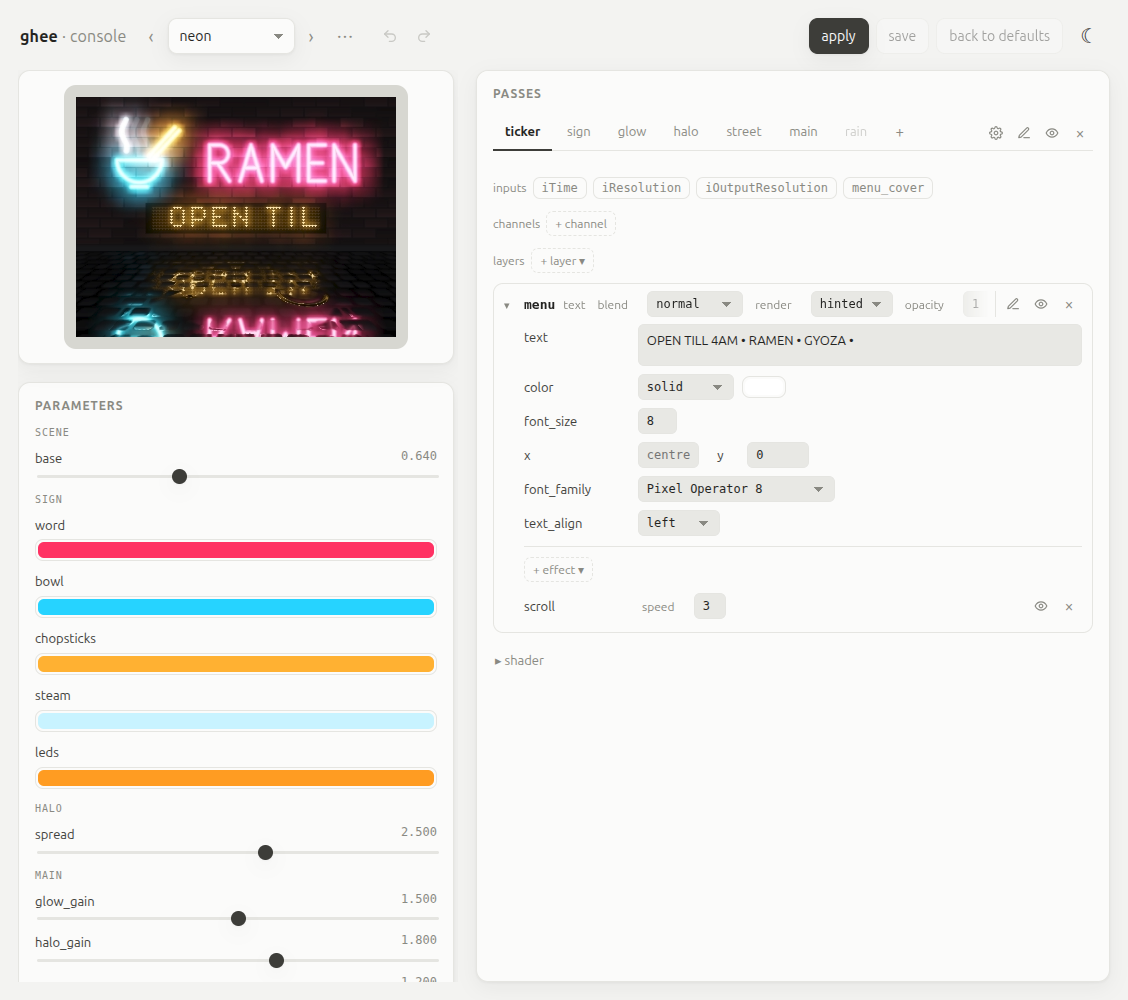
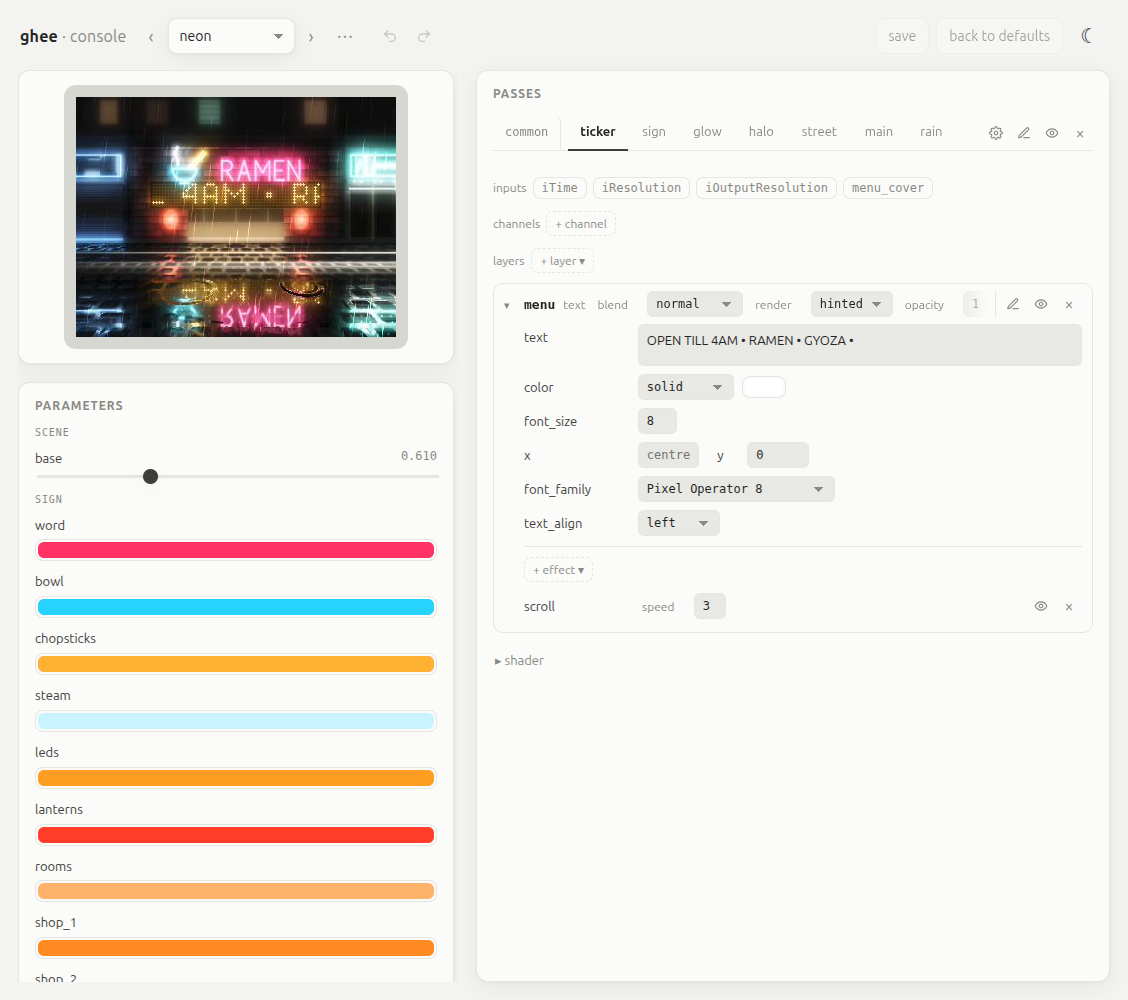
console: remove the apply button, every edit reaches ghee by itself

diff --git a/ghee/console/web/index.html b/ghee/console/web/index.html
@@ -523,7 +523,6 @@
   </div>
   <span class="spacer"></span>
   <div class="actions">
-    <button class="primary" id="apply">apply</button>
     <button id="save" disabled>save</button>
     <button id="reset" type="button" disabled>back to defaults</button>
     <button class="ghost" id="theme" title="toggle theme">☾</button>
@@ -641,7 +640,6 @@
   <div class="toast bad" id="offline" role="status" hidden><span>server not responding</span></div>
   <div class="toast" id="moved" role="status" title="dismiss" hidden><span></span></div>
   <div class="toast" id="refused" role="status" title="dismiss" hidden><span></span></div>
-  <div class="toast" id="newer" role="status" hidden><span>files newer</span></div>
   <div class="toast" id="stale" role="status" hidden><span>files changed</span><button type="button" title="a reload takes the new files and keeps the edits made here">reload</button></div>
   <div class="toast" id="behind" role="status" hidden><span>this scene changed since you loaded it</span><button type="button" title="read the scene as it is now">reload</button></div>
   <div class="toast" id="broken" role="status" hidden><span>saved edits do not build</span><button type="button" title="what does not build, and drop them">show</button></div>
@@ -935,7 +933,7 @@ const hasEdits = () => Object.keys(E.values || {}).length > 0 || (E.items || [])
 function paintStatus(){
   $("#save").disabled = !E.unsaved;
   $("#reset").disabled = !hasEdits();
-  $("#apply").disabled = $("#prev").disabled = $("#next").disabled = !active;
+  $("#prev").disabled = $("#next").disabled = !active;
   $("#addToggle").hidden = !active;
   if (!active) $("#addRow").classList.remove("show");
 }
@@ -3281,16 +3279,6 @@ CODE.ta.addEventListener("input", ()=>{
 });
 
 // top-bar actions
-let newerTimer = null;
-$("#apply").addEventListener("click", async ()=>{
-  if (onCommon()) setCommon(CODE.ta.value);
-  else work.passes[curPass].fragment = CODE.ta.value;
-  await postScene();
-  if (staleScene){   // allowed: apply never writes disk, it just ignores the newer files
-    popUp($("#newer"));
-    clearTimeout(newerTimer); newerTimer = setTimeout(()=>toast($("#newer"), false), 1400);
-  }
-});
 // Save writes the working copy's edits to the scene's state file on the
 // device. A save's refusal shows until a save succeeds, and saveErr holds it.
 let saveErr = "";
